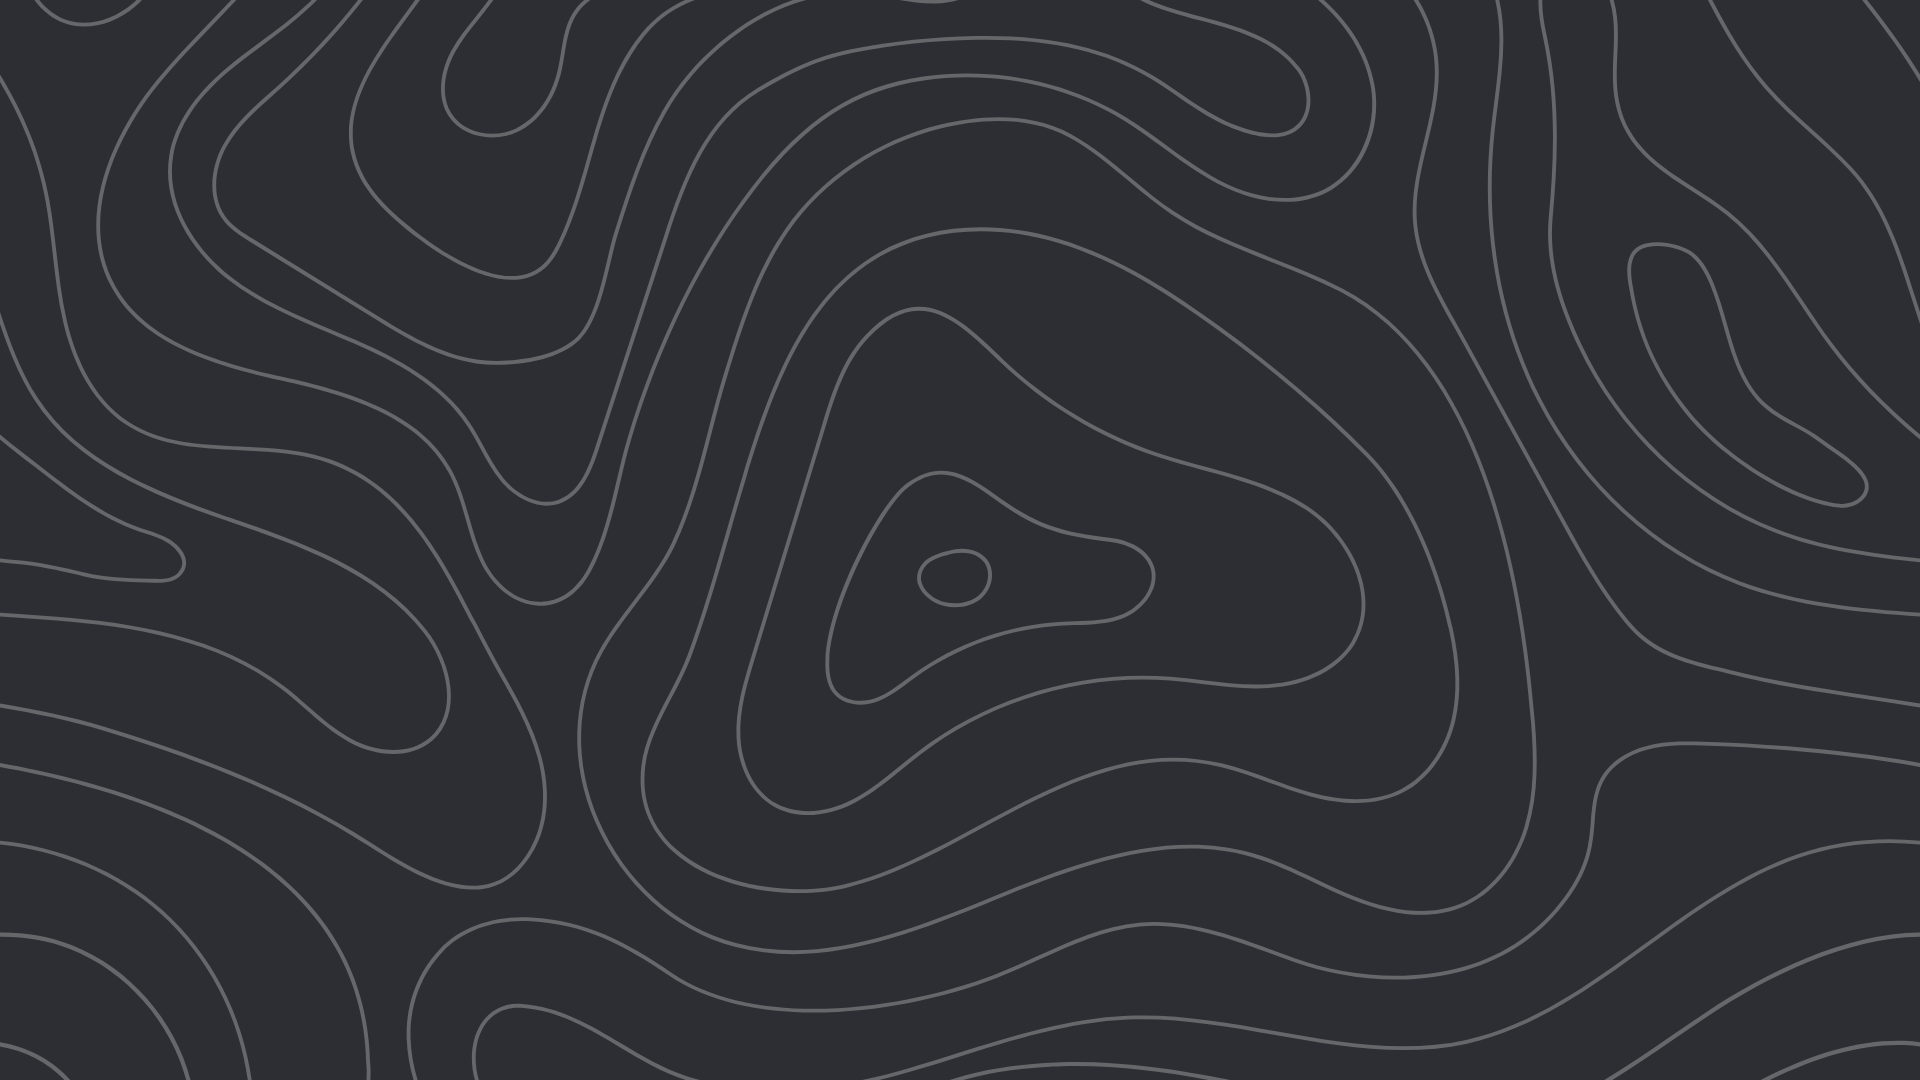
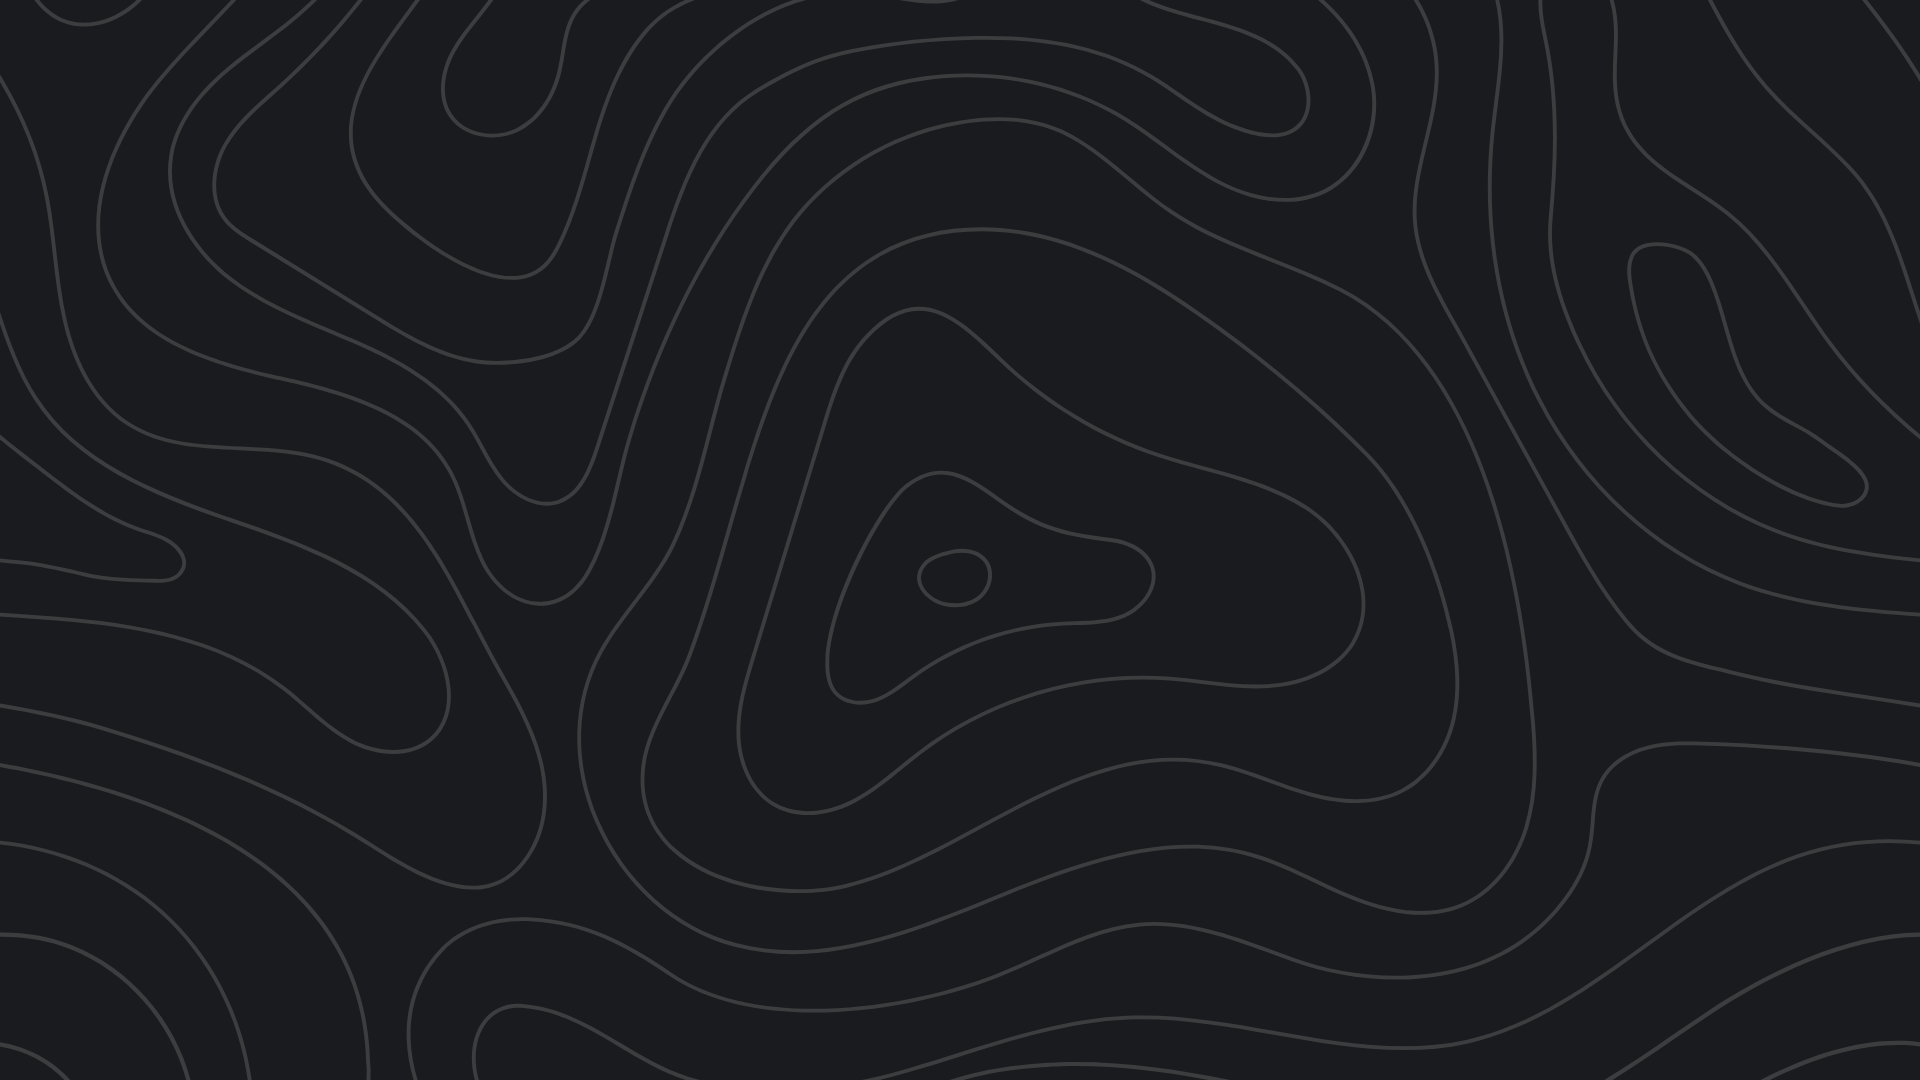
feat: change background

diff --git a/frontend/app/globals.css b/frontend/app/globals.css
@@ -118,15 +118,6 @@ select:focus-visible {
   z-index: 0;
 }
 
-/* Darken overlay: transforms #2C2E33 → #191B1F (40% black overlay) */
-.bg-topographic::after {
-  content: '';
-  position: absolute;
-  inset: 0;
-  background: rgba(0, 0, 0, 0.40);
-  pointer-events: none;
-}
-
 /* ============================================
    ANIMATIONS
    ============================================ */
